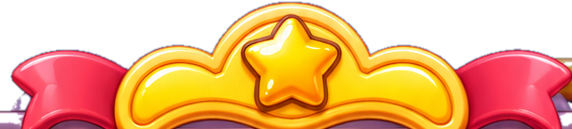
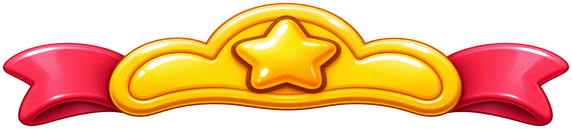
Win popup: use ChatGPT-painted panel, stats bar, button, title, crown, stars, coin
Claude-Session: https://claude.ai/code/session_01NtdD59FKe2D5p4YXTBGgrJ

diff --git a/index.html b/index.html
@@ -59,9 +59,8 @@ button.on{background:var(--accent)}
 .w-title{font:700 clamp(68px,19vw,128px)/0.9 var(--f-display);color:var(--ball);letter-spacing:.02em;transform:rotate(-3deg);
   text-shadow:4px 0 var(--ink),-4px 0 var(--ink),0 4px var(--ink),0 -4px var(--ink),3px 3px var(--ink),-3px 3px var(--ink),3px -3px var(--ink),-3px -3px var(--ink),0 10px 0 var(--ink)}
 .w-title span{display:inline-block}
-.w-panel{--plum:#5B3A60;--plum2:#7A4F7E;position:relative;display:flex;flex-direction:column;align-items:center;gap:8px;width:min(340px,calc(100vw - 32px));padding:34px 16px 20px;margin-top:34px;border-radius:36px;
-  background:radial-gradient(120% 60% at 50% 0%,#FFF8F0,rgba(255,248,240,0) 70%),linear-gradient(#FFF0E6,#FFE6D6 70%,#FBDCCB);
-  border:8px solid #A77BA6;box-shadow:0 0 0 3px var(--plum),inset 0 0 0 3px #FFD45E,inset 0 0 0 6px #FFF4E4,0 10px 0 #4A2F50,0 22px 44px rgba(40,20,50,.45)}
+.w-panel{--plum:#5B3A60;--plum2:#7A4F7E;position:relative;isolation:isolate;display:flex;flex-direction:column;align-items:center;gap:8px;width:min(340px,calc(100vw - 32px));padding:40px 22px 40px;margin-top:34px;filter:drop-shadow(0 16px 22px rgba(40,20,50,.4))}
+.w-panel::before{content:'';position:absolute;inset:0;z-index:-1;border-style:solid;border-width:88px 84px 62px;border-image:url(art/ui/panel.png) 176 168 156 fill / 88px 84px 62px stretch}
 .w-crown{position:absolute;top:-62px;left:50%;width:250px;transform:translateX(-50%);pointer-events:none;filter:drop-shadow(0 3px 0 rgba(74,47,80,.35))}
 .w-lv{font:700 16px/1 var(--f-display);letter-spacing:.05em;text-transform:uppercase;color:var(--plum);margin-top:2px}
 .w-clear{width:300px;max-width:100%;height:auto;margin:0 0 -4px}
@@ -80,7 +79,8 @@ button.on{background:var(--accent)}
 .w-spark.l{left:0}.w-spark.r{right:0;transform:scaleX(-1)}
 #win.in .w-stars.lit .w-spark{opacity:1}
 .w-goal{font:700 14px/1.25 var(--f-display);color:#5A2F52;min-height:1.25em;text-align:center}
-.w-panel .w-stats{width:100%;justify-content:space-around;background:linear-gradient(#C9A0CC,#9A6CA0 55%,#835689);border:3px solid var(--plum);border-radius:24px;padding:10px 4px 9px;box-shadow:inset 0 3px 0 rgba(255,255,255,.35),inset 0 -4px 0 rgba(74,47,80,.25),0 4px 0 rgba(74,47,80,.4)}
+.w-panel .w-stats{position:relative;isolation:isolate;width:100%;justify-content:space-around;background:none;padding:12px 10px 13px}
+.w-panel .w-stats::before{content:'';position:absolute;inset:0;z-index:-1;background:url(art/ui/stats-bar.png) center/100% 100% no-repeat}
 .w-panel .w-stats div{min-width:0;flex:1;gap:3px}
 .w-panel .w-stats div+div{border-left:2px solid rgba(255,255,255,.28)}
 .w-panel .w-stats b{font:700 30px/1 var(--f-display);color:#FFDE3D;display:flex;align-items:center;gap:4px;
@@ -92,8 +92,9 @@ button.on{background:var(--accent)}
   text-shadow:2.5px 0 #fff,-2.5px 0 #fff,0 2.5px #fff,0 -2.5px #fff,2px 2px #fff,-2px -2px #fff,0 5px 0 #B0195F,0 7px 10px rgba(176,25,95,.25);transform:rotate(-2deg)}
 .w-panel .w-best .w-spark{top:2px;width:40px;height:40px;opacity:1;transition:none}
 .w-panel .w-best .w-spark.l{left:-2px}.w-panel .w-best .w-spark.r{right:-2px}
-.w-panel .w-tap{font:700 23px/1 var(--f-display);color:#fff;background:linear-gradient(#D7AEDA,#A174A8 55%,#8A5C91);border:3px solid var(--plum);padding:14px 40px;border-radius:999px;
-  text-shadow:0 2px 0 rgba(74,47,80,.55);box-shadow:inset 0 3px 0 rgba(255,255,255,.4),inset 0 -4px 0 rgba(74,47,80,.25),0 5px 0 #4A2F50}
+.w-panel .w-tap{position:relative;isolation:isolate;font:700 23px/1 var(--f-display);color:#fff;background:none;padding:18px 34px 20px;
+  text-shadow:0 2px 0 rgba(74,47,80,.55)}
+.w-panel .w-tap::before{content:'';position:absolute;inset:0;z-index:-1;background:url(art/ui/button.png) center/100% 100% no-repeat}
 .w-panel .w-prev{font:600 12px/1 var(--f-display);color:#7A5A7E}
 .w-best{font:700 15px/1 var(--f-display);background:var(--spring);color:#fff;padding:8px 14px;border-radius:999px;letter-spacing:.1em}
 .w-stats{display:flex;gap:4px;background:var(--ink);color:var(--paper);border-radius:14px;padding:10px 6px}

diff --git a/CLAUDE.md b/CLAUDE.md
@@ -37,7 +37,7 @@
 ## Code map (in `index.html`)
 - Settings: `FEEL` (slider and toggle definitions; `'seg'` type = button group, with options in `SEGS`) and `DEF`. Settings save under the key `sbl_feel`.
 - Core loop: `tap()`, `step()`, `land()`, `doSlamBounce()`, `hitBrk()`, `nextCombo()`, `turnsAt()`, `die()`, `startPlay()`.
-- Win: `celebrate()`, `winStep()`, `showBanner()`. The popup (`#win .w-panel`, styled after Allan's purple/cream ChatGPT design `art/ui/src/level-clear-concept-2.png` (the older navy one is `level-clear-concept.png`); baked pictures `art/ui/title.png` ("Level clear!"), `crown.png`, shiny `star.png`, `star-empty.png`, `coin.png` cut by `python3 tools/cut_ui.py`; NEW BEST / FIRST CLEAR is plain colourful text, no pill, per Allan) shows Level clear!, 1–3 stars, slams, coins found / total, time. Stars: `levelPar()` = fewest slams the bot finds (computed once per layout + physics Feel at level start, saved as `sbl_par_<hash>`); `starsFor()`: ≤ par = 3, ≤ par + `starStep(par)` (max(2, ½ par)) = 2, else 1. Best stars saved as `sbl_best_<hash>_stars`.
+- Win: `celebrate()`, `winStep()`, `showBanner()`. The popup (`#win .w-panel`, styled after Allan's purple/cream ChatGPT design `art/ui/src/level-clear-concept-2.png` (the older navy one is `level-clear-concept.png`); baked pictures `art/ui/title.png` ("Level clear!"), `crown.png`, shiny `star.png`, `star-empty.png`, `coin.png` redrawn by ChatGPT from that design (2026-11-13), plus `panel.png` (9-slice frame via `border-image`), `stats-bar.png` and `button.png` (stretched). The earlier pieces cut by `python3 tools/cut_ui.py` are kept in `art/ui/src/cut-v1/`; rerunning that script overwrites ChatGPT's pieces; NEW BEST / FIRST CLEAR is plain colourful text, no pill, per Allan) shows Level clear!, 1–3 stars, slams, coins found / total, time. Stars: `levelPar()` = fewest slams the bot finds (computed once per layout + physics Feel at level start, saved as `sbl_par_<hash>`); `starsFor()`: ≤ par = 3, ≤ par + `starStep(par)` (max(2, ½ par)) = 2, else 1. Best stars saved as `sbl_best_<hash>_stars`.
 - Level start: `introStart()`/`introTick()` (Feel `intro`: `fly` = camera starts on the flag and glides to Boing, `zoom` = whole level shown then zooms in, `off`). Runs only on a level's first try, not after deaths or for the bot; a tap skips it. `drawGoalArrow()` pins a flag badge to the screen edge pointing at an off-screen flag (Feel `goalArrow`).
 - Drawing: `render()`, `drawObj()`, `drawBall()`, `drawBoing()`. Boing is drawn with his body's bottom on the hitbox's bottom, scaled by `boingSize` (default 1.5×; visual only, the hitbox never changes). He flips with direction. `pickPose()` chooses rise/apex/fall/land/slam/dead/win from his motion, and `drawBoing()` fades into the new pose over `poseBlend` s, with `tilt` and `squashAmt` (Feel sliders) on top.
 - World art (painted, `// ---------- world art (painted) ----------`): Feel `art` default `painted`. Pieces cut from Allan's ChatGPT concept (`art/world/src/concept-1.png`) by `python3 tools/cut_world.py` into `art/world/*.png` (needs opencv-python-headless): 3-slice caps `cap-*` (anchored) and `float-*` (plank platform), brick tile `base-bricks` (drawn crisp by `python3 tools/make_bricks.py`, running bond, 4 px per unit; `base-mid` is the old blurry cut, unused), decorations `deco-banner`/`deco-vine`, `bg-far` (mirrored so it loops), `cloud-1..3`. Drawn at `ART_K` 0.55 units per pixel; walk line = pixel row 8 of each cap. Bases layer like the greybox. Breakables still use the code drawing. Pictures load from `art/world/`, so the artifact publish must include them via `files`.
